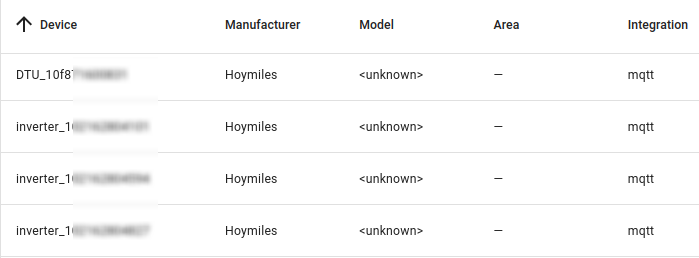
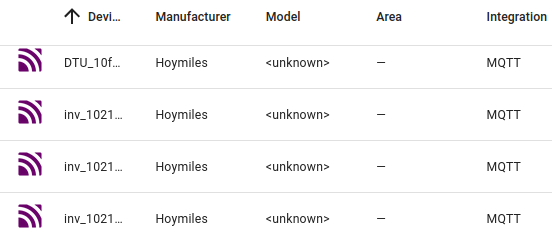
Remove device name from entity name. (#17)

diff --git a/tests/test_hoymiles_mqtt.py b/tests/test_hoymiles_mqtt.py
@@ -1,21 +1,144 @@
 #!/usr/bin/env python
 """Tests for `hoymiles_mqtt` package."""
+import json
 
-import pytest
+from hoymiles_modbus.client import MISeriesMicroinverterData, PlantData
 
-
-@pytest.fixture
-def response():
-    """Sample pytest fixture.
-
-    See more at: http://doc.pytest.org/en/latest/fixture.html
-    """
-    # import requests
-    # return requests.get('https://github.com/audreyr/cookiecutter-pypackage')
+from hoymiles_mqtt.ha import HassMqtt
 
 
-def test_content(response):
-    """Sample pytest test function with the pytest fixture as an argument."""
-    # from bs4 import BeautifulSoup
-    # assert 'GitHub' in BeautifulSoup(response.content).title.string
-    del response
+def test_config_payload():
+    """Test HassMqtt.config_payload."""
+    microinverter_data = MISeriesMicroinverterData(
+        data_type=0,
+        serial_number='102162804827',
+        port_number=3,
+        pv_voltage=0,
+        pv_current=0,
+        grid_voltage=0,
+        grid_frequency=0,
+        pv_power=0,
+        today_production=0,
+        total_production=0,
+        temperature=0,
+        operating_status=0,
+        alarm_code=0,
+        alarm_count=0,
+        link_status=0,
+        reserved=[],
+    )
+    plant_data = PlantData('dtu_serial', microinverter_data=[microinverter_data])
+    ha = HassMqtt(mi_entities=['grid_voltage'], port_entities=['pv_voltage'])
+    payload = list(ha.get_configs(plant_data))
+    assert payload[0] == (
+        'homeassistant/sensor/dtu_serial/DTU_pv_power/config',
+        json.dumps(
+            {
+                'device': {
+                    'name': 'DTU_dtu_serial',
+                    'identifiers': ['hoymiles_mqtt_dtu_serial'],
+                    'manufacturer': 'Hoymiles',
+                },
+                'name': 'pv_power',
+                'unique_id': 'hoymiles_mqtt_DTU_dtu_serial_pv_power',
+                'state_topic': 'homeassistant/hoymiles_mqtt/dtu_serial/state',
+                'value_template': '{{ value_json.pv_power }}',
+                'device_class': 'power',
+                'unit_of_measurement': 'W',
+                'state_class': 'measurement',
+            }
+        ),
+    )
+    assert payload[1] == (
+        'homeassistant/sensor/dtu_serial/DTU_today_production/config',
+        json.dumps(
+            {
+                'device': {
+                    'name': 'DTU_dtu_serial',
+                    'identifiers': ['hoymiles_mqtt_dtu_serial'],
+                    'manufacturer': 'Hoymiles',
+                },
+                'name': 'today_production',
+                'unique_id': 'hoymiles_mqtt_DTU_dtu_serial_today_production',
+                'state_topic': 'homeassistant/hoymiles_mqtt/dtu_serial/state',
+                'value_template': '{{ value_json.today_production }}',
+                'device_class': 'energy',
+                'unit_of_measurement': 'Wh',
+                'state_class': 'total_increasing',
+            }
+        ),
+    )
+    assert payload[2] == (
+        'homeassistant/sensor/dtu_serial/DTU_total_production/config',
+        json.dumps(
+            {
+                'device': {
+                    'name': 'DTU_dtu_serial',
+                    'identifiers': ['hoymiles_mqtt_dtu_serial'],
+                    'manufacturer': 'Hoymiles',
+                },
+                'name': 'total_production',
+                'unique_id': 'hoymiles_mqtt_DTU_dtu_serial_total_production',
+                'state_topic': 'homeassistant/hoymiles_mqtt/dtu_serial/state',
+                'value_template': '{{ value_json.total_production }}',
+                'device_class': 'energy',
+                'unit_of_measurement': 'Wh',
+                'state_class': 'total_increasing',
+            }
+        ),
+    )
+    assert payload[3] == (
+        'homeassistant/binary_sensor/dtu_serial/DTU_alarm_flag/config',
+        json.dumps(
+            {
+                'device': {
+                    'name': 'DTU_dtu_serial',
+                    'identifiers': ['hoymiles_mqtt_dtu_serial'],
+                    'manufacturer': 'Hoymiles',
+                },
+                'name': 'alarm_flag',
+                'unique_id': 'hoymiles_mqtt_DTU_dtu_serial_alarm_flag',
+                'state_topic': 'homeassistant/hoymiles_mqtt/dtu_serial/state',
+                'value_template': '{{ value_json.alarm_flag }}',
+                'device_class': 'problem',
+            }
+        ),
+    )
+    assert payload[4] == (
+        'homeassistant/sensor/102162804827/inv_grid_voltage/config',
+        json.dumps(
+            {
+                'device': {
+                    'name': 'inv_102162804827',
+                    'identifiers': ['hoymiles_mqtt_102162804827'],
+                    'manufacturer': 'Hoymiles',
+                },
+                'name': 'grid_voltage',
+                'unique_id': 'hoymiles_mqtt_inv_102162804827_grid_voltage',
+                'state_topic': 'homeassistant/hoymiles_mqtt/102162804827/state',
+                'value_template': '{{ value_json.grid_voltage }}',
+                'device_class': 'voltage',
+                'unit_of_measurement': 'V',
+                'state_class': 'measurement',
+            }
+        ),
+    )
+    assert payload[5] == (
+        'homeassistant/sensor/102162804827/port_3_pv_voltage/config',
+        json.dumps(
+            {
+                'device': {
+                    'name': 'inv_102162804827',
+                    'identifiers': ['hoymiles_mqtt_102162804827'],
+                    'manufacturer': 'Hoymiles',
+                },
+                'name': 'port_3_pv_voltage',
+                'unique_id': 'hoymiles_mqtt_port_3_102162804827_pv_voltage',
+                'state_topic': 'homeassistant/hoymiles_mqtt/102162804827/3/state',
+                'value_template': '{{ value_json.pv_voltage }}',
+                'device_class': 'voltage',
+                'unit_of_measurement': 'V',
+                'state_class': 'measurement',
+            }
+        ),
+    )

diff --git a/hoymiles_mqtt/ha.py b/hoymiles_mqtt/ha.py
@@ -154,10 +154,8 @@ class HassMqtt:
         entity_definitions: Dict[str, EntityDescription],
         port: Optional[int] = None,
     ) -> Iterable[Tuple[str, str]]:
-        if port is not None:
-            entity_prefix = f'port_{port}'
-        else:
-            entity_prefix = device_name
+        port_prefix = f'port_{port}' if port is not None else ''
+        entity_prefix = port_prefix if port_prefix else device_name
         for entity_name, entity_definition in entity_definitions.items():
             config_payload = {
                 "device": {
@@ -165,7 +163,7 @@ class HassMqtt:
                     "identifiers": [f"hoymiles_mqtt_{device_serial_number}"],
                     "manufacturer": "Hoymiles",
                 },
-                "name": f"{entity_prefix}_{device_serial_number}_{entity_name}",
+                "name": f'{port_prefix}_{entity_name}' if port_prefix else entity_name,
                 "unique_id": f"hoymiles_mqtt_{entity_prefix}_{device_serial_number}_{entity_name}",
                 "state_topic": self._get_state_topic(device_serial_number, port),
                 "value_template": "{{ value_json.%s }}" % entity_name,
